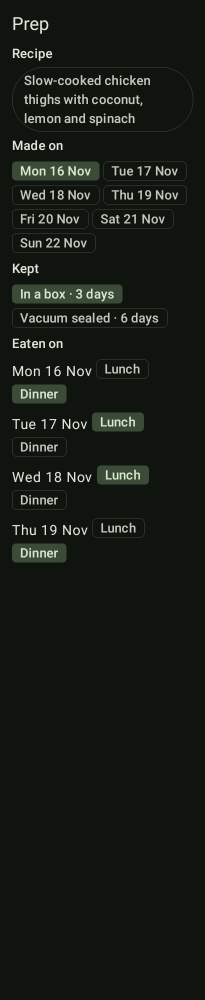
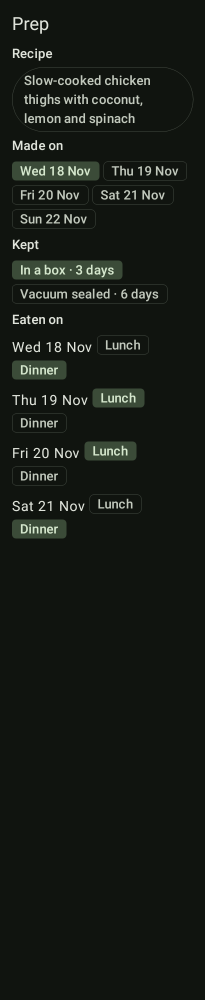
The Prep dialog offers no made-on day that has passed (#234)
The server takes a made-on day in the past, so the app keeps it from being chosen: the dialog offers the
days of the shown week from today on, a week that is over has no "Prep a recipe…", a meal's "Prep this
recipe…" is offered from today on, and a choice made on a day that passed says why it can't be made.

Changed region(s): [[0.0585, 0.155, 0.878, 0.589]]

diff --git a/composeApp/src/commonMain/kotlin/dev/tobins/mealplanner/app/PlanScreen.kt b/composeApp/src/commonMain/kotlin/dev/tobins/mealplanner/app/PlanScreen.kt
@@ -163,7 +163,7 @@ fun PlanScreen(
     }
 
     prepping?.let { start ->
-        PrepDialog(start, weekDays = (0..6).map { plusDays(weekStart, it) }, recipes = preppable, onDismiss = { prepping = null }) { input ->
+        PrepDialog(start, weekDays = prepDays(weekStart, today), recipes = preppable, onDismiss = { prepping = null }) { input ->
             when (val result = load { api.createPrep(weekStart, input) }) {
                 is Load.Ready -> {
                     state = result
@@ -248,7 +248,9 @@ fun PlanScreen(
                             Button(enabled = !busy, onClick = { change { api.generatePlan(weekStart) } }) {
                                 Text(if (hasMeals) t(Msg.REPLAN) else t(Msg.PLAN_WEEK))
                             }
-                            TextButton(enabled = !busy, onClick = { prepping = PrepChoice(preppable.singleOrNull(), madeOn = firstDayFrom(weekStart, today)) }) {
+                            // A prep is made today or later: a week that is over has no day for it.
+                            val days = prepDays(weekStart, today)
+                            TextButton(enabled = !busy && days.isNotEmpty(), onClick = { prepping = PrepChoice(preppable.singleOrNull(), days.first(), firstDay = today) }) {
                                 Text(t(Msg.PREP_A_RECIPE))
                             }
                             if (plan.emptySlots.isNotEmpty() && emptyRotation) {
@@ -283,6 +285,7 @@ fun PlanScreen(
                             DayCard(
                                 day = day,
                                 dayIndex = index,
+                                today = today,
                                 targets = plan.targets,
                                 // A slot is offered on every day that has no meal in it.
                                 missingSlots = MealSlot.entries.filter { slot -> day.meals.none { it.slot == slot } },
@@ -304,7 +307,7 @@ fun PlanScreen(
                                 onAdjust = { meal -> onAdjust(MealPlace(weekStart, meal.day, meal.slot)) },
                                 onPrep = { meal ->
                                     val date = plusDays(weekStart, meal.day)
-                                    prepping = PrepChoice(preppable.first { it.id == meal.recipeId }, madeOn = date).with().toggled(date, meal.slot)
+                                    prepping = PrepChoice(preppable.first { it.id == meal.recipeId }, madeOn = date, firstDay = today).with().toggled(date, meal.slot)
                                 },
                                 onRemovePrep = { meal -> removingPrep = meal },
                             )
@@ -320,6 +323,8 @@ fun PlanScreen(
 private fun DayCard(
     day: PlanDay,
     dayIndex: Int,
+    /** Today's ISO date: a prep is not made on a day that has passed. */
+    today: String,
     targets: DailyTargets,
     missingSlots: List<MealSlot>,
     enabled: Boolean,
@@ -400,7 +405,7 @@ private fun DayCard(
                                 DropdownMenuItem(text = { Text(t(Msg.WRITE_NEW_RECIPE)) }, enabled = !meal.locked, onClick = { menu = false; onGenerate(meal) })
                                 if (meal.prep != null) {
                                     DropdownMenuItem(text = { Text(t(Msg.REMOVE_PREP)) }, onClick = { menu = false; onRemovePrep(meal) })
-                                } else if (meal.recipeId in preppable && (meal.slot == MealSlot.LUNCH || meal.slot == MealSlot.DINNER)) {
+                                } else if (meal.recipeId in preppable && (meal.slot == MealSlot.LUNCH || meal.slot == MealSlot.DINNER) && day.date >= today) {
                                     DropdownMenuItem(text = { Text(t(Msg.PREP_THIS_RECIPE)) }, onClick = { menu = false; onPrep(meal) })
                                 }
                             }
@@ -423,9 +428,6 @@ private fun DayCard(
         }
     }
 }
-
-/** The day a new prep is made on at first: today when it is in the week starting [weekStart], else that week's first day. */
-fun firstDayFrom(weekStart: String, today: String): String = if (today >= weekStart && today < plusDays(weekStart, 7)) today else weekStart
 
 /** A day's kcal and protein against the targets, and its fibre when the server sends fibre and its target. */
 private fun dayTotals(day: PlanDay, targets: DailyTargets, t: Strings): String {

diff --git a/composeApp/src/commonTest/kotlin/dev/tobins/mealplanner/app/PrepTest.kt b/composeApp/src/commonTest/kotlin/dev/tobins/mealplanner/app/PrepTest.kt
@@ -33,7 +33,7 @@ class PrepTest {
 
     @Test
     fun noDayPastTheLastOneItKeepsCanBePicked() {
-        val choice = PrepChoice(salad, madeOn = "2026-11-17")
+        val choice = PrepChoice(salad, madeOn = "2026-11-17", firstDay = "2026-11-17")
         assertEquals(listOf("2026-11-17", "2026-11-18", "2026-11-19", "2026-11-20"), choice.days, "made Tuesday, three days in a box")
         assertEquals("2026-11-22", choice.with(vacuum = true).days.last(), "five vacuum sealed")
 
@@ -47,7 +47,7 @@ class PrepTest {
 
     @Test
     fun aPrepNeedsARecipeTwoMealsAndItsFirstOnTheDayItIsMade() {
-        val choice = PrepChoice(null, madeOn = "2026-11-17")
+        val choice = PrepChoice(null, madeOn = "2026-11-17", firstDay = "2026-11-17")
         assertEquals(Msg.PREP_PICK_RECIPE, choice.problem)
         assertEquals(Msg.PREP_FIRST_ON_MADE_DAY, choice.with(recipe = salad).toggled("2026-11-18", LUNCH).problem)
         assertEquals(Msg.PREP_TWO_MEALS, choice.with(recipe = salad).toggled("2026-11-17", DINNER).problem)
@@ -61,10 +61,15 @@ class PrepTest {
     }
 
     @Test
-    fun aNewPrepIsMadeTodayInThisWeekAndOnMondayInAnother() {
-        assertEquals("2026-11-18", firstDayFrom("2026-11-16", "2026-11-18"))
-        assertEquals("2026-11-23", firstDayFrom("2026-11-23", "2026-11-18"))
-        assertEquals("2026-11-16", firstDayFrom("2026-11-16", "2026-11-25"))
+    fun aPrepIsNeverMadeOnADayThatHasPassed() {
+        // On Wednesday the dialog offers Wednesday to Sunday of this week, all of next week, none of last week.
+        assertEquals(listOf("2026-11-18", "2026-11-19", "2026-11-20", "2026-11-21", "2026-11-22"), prepDays("2026-11-16", "2026-11-18"))
+        assertEquals(7, prepDays("2026-11-23", "2026-11-18").size)
+        assertEquals(emptyList(), prepDays("2026-11-09", "2026-11-18"))
+        // A meal of Tuesday offered from its menu on Wednesday: it can't be made.
+        val tuesday = PrepChoice(salad, madeOn = "2026-11-17", firstDay = "2026-11-18").toggled("2026-11-17", DINNER).toggled("2026-11-18", LUNCH)
+        assertEquals(Msg.PREP_MADE_ON_PAST, tuesday.problem)
+        assertNull(tuesday.with(madeOn = "2026-11-18").toggled("2026-11-19", LUNCH).problem)
     }
 
     private val prep = MealPrep(

diff --git a/composeApp/src/commonMain/kotlin/dev/tobins/mealplanner/app/Prep.kt b/composeApp/src/commonMain/kotlin/dev/tobins/mealplanner/app/Prep.kt
@@ -46,10 +46,20 @@ fun RecipeSummary.keeps(vacuum: Boolean): Int? = if (vacuum) keepsVacuumDays els
 fun preppable(recipes: List<RecipeSummary>): List<RecipeSummary> =
     recipes.filter { it.added && it.kind == RecipeKind.MEAL && it.plannable && (it.keepsDays != null || it.keepsVacuumDays != null) }
 
-/** What the Prep dialog has chosen so far: the recipe, the day it is made, how it is kept and the meals it is eaten in. */
+/**
+ * The days of the week starting [weekStart] a prep may be made on: from [today] on. None of a week that is over: the
+ * server would take a day that has passed, but a batch is made for the days to come.
+ */
+fun prepDays(weekStart: String, today: String): List<String> = (0..6).map { plusDays(weekStart, it) }.filter { it >= today }
+
+/**
+ * What the Prep dialog has chosen so far: the recipe, the day it is made, how it is kept and the meals it is eaten in.
+ * [firstDay] is the earliest day it may be made: today ([prepDays]).
+ */
 data class PrepChoice(
     val recipe: RecipeSummary?,
     val madeOn: String,
+    val firstDay: String,
     val vacuum: Boolean = false,
     val meals: Set<PrepSlot> = emptySet(),
 ) {
@@ -62,6 +72,7 @@ data class PrepChoice(
     /** Why it can't be made yet, or null when it can. */
     val problem: Msg?
         get() = when {
+            madeOn < firstDay -> Msg.PREP_MADE_ON_PAST
             recipe == null -> Msg.PREP_PICK_RECIPE
             keeps == null -> Msg.PREP_NOT_THIS_WAY
             meals.none { it.date == madeOn } -> Msg.PREP_FIRST_ON_MADE_DAY
@@ -94,7 +105,7 @@ fun prepMealsText(prep: MealPrep, t: Strings): String =
 fun SparePortion.lastDayOn(today: String): Boolean = lastDay == today
 
 /**
- * The Prep dialog: [start] as the choice it opens with, [weekDays] the days the batch may be made on (the week shown),
+ * The Prep dialog: [start] as the choice it opens with, [weekDays] the days the batch may be made on ([prepDays]),
  * [recipes] those it can be made of. [onSave] makes it, and says why when the server refuses.
  */
 @Composable

diff --git a/composeApp/src/androidHostTest/kotlin/dev/tobins/mealplanner/app/ScreenshotTest.kt b/composeApp/src/androidHostTest/kotlin/dev/tobins/mealplanner/app/ScreenshotTest.kt
@@ -110,24 +110,25 @@ private val keepingRecipe = RecipeSummary(
     plannable = true, keepsDays = 3, keepsVacuumDays = 6,
 )
 
-/** The prep of the fake week: made on Monday's dinner, eaten on Tuesday's and Wednesday's lunches and Thursday's dinner. */
-private val samplePrep = PrepChoice(keepingRecipe, FakeBackend.WEEK_START).let { choice ->
+/** A prep being made today (Wednesday) at dinner, eaten on Thursday's and Friday's lunches and Saturday's dinner. */
+private val samplePrep = PrepChoice(keepingRecipe, FakeBackend.TODAY, firstDay = FakeBackend.TODAY).let { choice ->
     listOf(0 to MealSlot.DINNER, 1 to MealSlot.LUNCH, 2 to MealSlot.LUNCH, 3 to MealSlot.DINNER)
-        .fold(choice) { prep, (day, slot) -> prep.toggled(plusDays(FakeBackend.WEEK_START, day), slot) }
+        .fold(choice) { prep, (day, slot) -> prep.toggled(plusDays(FakeBackend.TODAY, day), slot) }
 }
 
 @Composable
 private fun prepChoices() {
     Column(Modifier.padding(24.dp), verticalArrangement = Arrangement.spacedBy(16.dp)) {
         Text(LocalStrings.current(Msg.PREP_TITLE), style = MaterialTheme.typography.headlineSmall)
-        PrepChoices(samplePrep, (0..6).map { plusDays(FakeBackend.WEEK_START, it) }, listOf(keepingRecipe)) {}
+        // The days from today on are offered: Monday and Tuesday have passed.
+        PrepChoices(samplePrep, prepDays(FakeBackend.WEEK_START, FakeBackend.TODAY), listOf(keepingRecipe)) {}
     }
 }
 
 @Composable
 private fun removePrepQuestion() {
     val prep = MealPrep(
-        1, FakeBackend.WEEK_START, plusDays(FakeBackend.WEEK_START, 3), false,
+        1, FakeBackend.TODAY, plusDays(FakeBackend.TODAY, 3), false,
         samplePrep.input().meals.map { PrepMeal(it.date, it.slot, 1.0, MealStatus.PLANNED) },
     )
     Column(Modifier.padding(24.dp), verticalArrangement = Arrangement.spacedBy(16.dp)) {

diff --git a/composeApp/src/commonMain/kotlin/dev/tobins/mealplanner/app/Messages.kt b/composeApp/src/commonMain/kotlin/dev/tobins/mealplanner/app/Messages.kt
@@ -254,6 +254,7 @@ enum class Msg(private val english: String, private val dutch: String) {
     PREP_EATEN_ON("Eaten on", "Gegeten op"),
     PREP_FIRST_ON_MADE_DAY("The first meal is on the day it is made.", "De eerste maaltijd is op de dag dat je het maakt."),
     PREP_TWO_MEALS("Pick at least two meals.", "Kies minstens twee maaltijden."),
+    PREP_MADE_ON_PAST("The day it is made has passed: pick today or a later day.", "De dag waarop je het maakt is voorbij: kies vandaag of later."),
     PREP_PICK_RECIPE("Pick a recipe that keeps.", "Kies een recept dat goed blijft."),
     PREP_NOT_THIS_WAY("This recipe is not kept this way.", "Dit recept wordt niet zo bewaard."),
     PREP_SAVE("Prep", "Preppen"),

diff --git a/README.md b/README.md
@@ -237,8 +237,9 @@ Only by hand: the planner never starts a prep, it plans around one.
 
 **In the app.** A recipe's settings have "Keeps once made": in a box and vacuum sealed, each "not prepped" or 1 to 7
 days. On the Plan, "Prep a recipe…" under the replan button, or "Prep this recipe…" in the menu of a lunch or dinner
-whose recipe keeps (that day and meal already chosen), opens the Prep dialog: the recipe, the day it is made (a day of
-the week shown), in a box or vacuum sealed, and per day up to the last day it keeps its lunch and dinner; it says why
+whose recipe keeps (that day and meal already chosen, from today on), opens the Prep dialog: the recipe, the day it is
+made (a day of the week shown, today or later: a day that has passed is not offered, as the server would take it, and a
+week that is over has no "Prep a recipe…"), in a box or vacuum sealed, and per day up to the last day it keeps its lunch and dinner; it says why
 it can't be made yet (no meal on the made-on day, fewer than two meals). A prepped meal is labelled "Dinner · prep day"
 where it is made and "Lunch · prepped Mon 16 Nov" after; its lock can't be undone, and its menu has "Remove the
 prep…", which names every meal that goes before it removes them. The recipe opened from the prep day says "Cook 4
